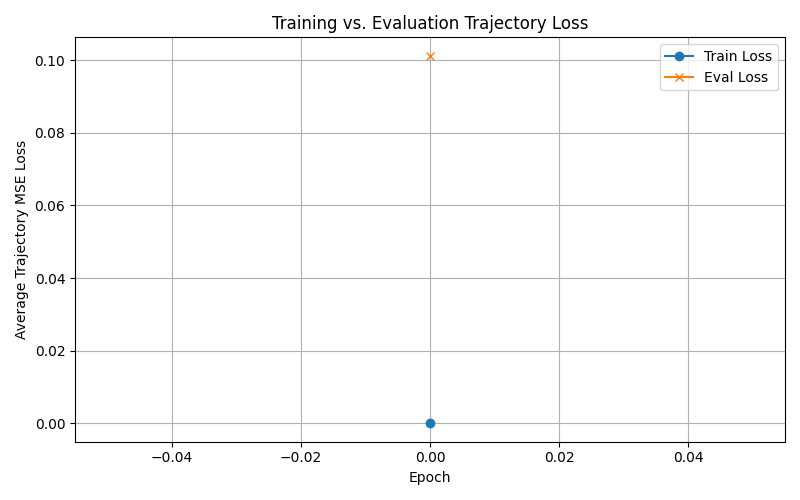
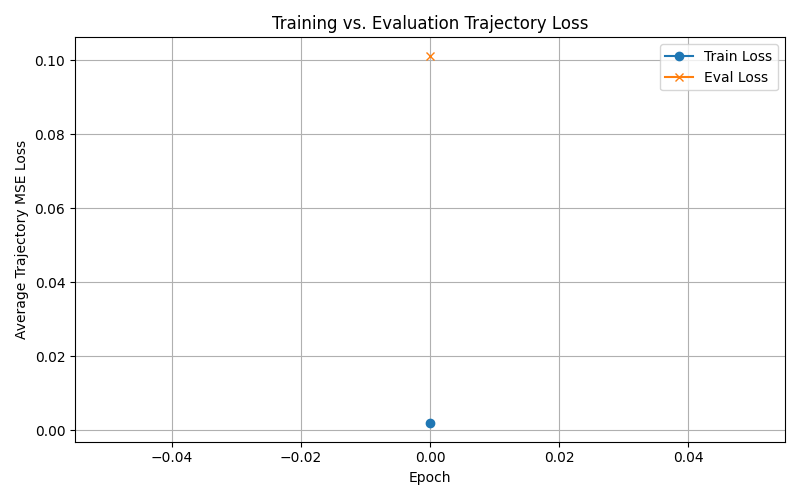
finsh checking outer loop dX_init and dM, dX result is sensitive to perturbation digits

diff --git a/Unit_test_sim.py b/Unit_test_sim.py
@@ -55,15 +55,12 @@ class Unit_test_sim(nn.Module):
         self.zero_mask = torch.all(self.b_undeformed_vert[:, 1:] == 0, dim=-1)
         self.zero_mask_num = 1 - self.zero_mask.repeat(batch, 1).to(torch.uint8)
         self.d_positions_init = torch.tensor([[[0.0, 0.0, 0.0],
-
-                                 [0e-2, 0e-2, 0e-2],
-
-                                 [2e-3, 0e-2, 1e-3],
-                                 [0e-2, 0e-4, 0e-4],
-
-                                 [0e-3, 0e-3, 0e-3],
-                                 [0e-3, 0e-3, 0e-3],
-                                 [0.0, 0.0, 0.0]]])
+                                               [0e-2, 0e-2, 0e-2],
+                                               [0e-3, 0e-2, 0e-3],
+                                               [0e-2, 0e-4, 0e-4],
+                                               [0e-3, 0e-3, 0e-3],
+                                               [0e-3, 0e-3, 0e-3],
+                                               [0.0, 0.0, 0.0]]])
         self.m_restEdgeL, self.m_restRegionL = computeLengths(
             computeEdges(self.b_undeformed_vert.clone(), self.zero_mask)
         )
@@ -101,10 +98,6 @@ class Unit_test_sim(nn.Module):
         self.clamped_index = torch.tensor([[1.0, 1.0,0,0,0, 1.0, 1.0]]) # hardcoded clamped index for the first vertex
         self.inext_scale = self.clamped_index * (1e20)+1 # clamped points does not move
         self.n_branch=n_branch
-
-
-
-
         # self.damping = nn.Parameter(torch.tensor(0.1, device=device))  # damping factor
 
 
@@ -113,7 +106,6 @@ class Unit_test_sim(nn.Module):
         return torch.matmul(mass_matrix, self.gravity.view(-1, 1)).squeeze(-1)
 
     def Numerical_Integration(self,mass_matrix,total_force, velocities,positions, dt):
-
         acc = torch.linalg.solve(mass_matrix, total_force.unsqueeze(-1)).squeeze(-1)
         velocities = velocities + acc * dt
         positions = positions + velocities * dt  # not wrapped in nn.Parameter
@@ -123,62 +115,10 @@ class Unit_test_sim(nn.Module):
         traj_loss_eval = 0.0
         total_loss = 0.0
         total_force = self.External_Force(self.mass_matrix)
-        constraint_loop = 1
+        constraint_loop = 20
 
         self.bkgrad.reset(self.batch, self.n_vert)
 
-        # ___Define the perturbance for analytical & numerical gradient calculation___
-        d_positions = np.array([[[0.0, 0.0, 0.0],
-                                    [0e-2, 0e-2, 0e-2],
-                                    [0e-2, 0e-2, 0e-2],
-                                    [1e-3, 3e-3, 1e-3],
-                                    [4e-3, 5e-3, 1e-3],
-                                    [1e-3, 3e-3, 1e-3],
-                                    [0.0, 0.0, 0.0]]])
-
-        d_mass = np.array([[[0.0],
-                            [0.0],
-                            [3e-3],
-                            [2e-3],
-                            [0.0],
-                            [0.0],
-                            [0.0]]])
-
-        d_positions_init = self.d_positions_init.detach().cpu().numpy()
-        d_positions= torch.from_numpy(d_positions).to(self.device)
-        d_mass_matrix = np.eye(3)[None, :, :] * d_mass.squeeze()[:, None, None]
-        d_mass_matrix = torch.from_numpy(d_mass_matrix).to(self.device)
-
-        positions_pre_constraint = positions_traj[:,0].clone()
-        b_undeformed_vert_pre_constraint = self.b_undeformed_vert.clone()
-
-        # ___Numerical negative perturbation___
-        positions_negative = positions_pre_constraint - d_positions
-        positions_negative_input = positions_negative.clone()
-
-        mass_negative = self.mass_matrix - d_mass_matrix
-        mass_negative_input = mass_negative.clone()
-        mass_scale1_neg = mass_negative_input[:, 1:] @ torch.linalg.pinv(mass_negative_input[:, 1:] + mass_negative_input[:, :-1])
-        mass_scale2_neg = mass_negative_input[:, :-1] @ torch.linalg.pinv(mass_negative_input[:, 1:] + mass_negative_input[:, :-1])
-        mass_scale_neg = torch.cat((mass_scale1_neg, -mass_scale2_neg), dim=1).view(-1, self.n_edge, 3, 3)
-
-        undeform_vert_negative = b_undeformed_vert_pre_constraint-d_positions_init
-        undeform_vert_negative_input = undeform_vert_negative.clone()
-
-        # ___Numerical positive perturbation___
-        positions_positive = positions_pre_constraint + d_positions
-        positions_positive_input = positions_positive.clone()
-
-        mass_positive = self.mass_matrix + d_mass_matrix
-        mass_positive_input = mass_positive.clone()
-        mass_scale1_pos = mass_positive_input[:, 1:] @ torch.linalg.pinv(mass_positive_input[:, 1:] + mass_positive_input[:, :-1])
-        mass_scale2_pos = mass_positive_input[:, :-1] @ torch.linalg.pinv(mass_positive_input[:, 1:] + mass_positive_input[:, :-1])
-        mass_scale_pos = torch.cat((mass_scale1_pos, -mass_scale2_pos), dim=1).view(-1, self.n_edge, 3, 3)
-
-        undeform_vert_positive = b_undeformed_vert_pre_constraint+d_positions_init
-        undeform_vert_positive_input = undeform_vert_positive.clone()
-
-        # ___Analytical gradient & Center values for inextensibility constraint enforcement___
         for t in range(time_horizon):
             if t == 0:
                 # print('at time step', t)
@@ -192,8 +132,64 @@ class Unit_test_sim(nn.Module):
 
             positions = self.Numerical_Integration(self.mass_matrix, total_force, velocities,
                                                                prev_positions, dt)
-            for _ in range(constraint_loop):
 
+            # ___Define the perturbance for analytical & numerical gradient calculation___
+            d_positions = np.array([[[0.0, 0.0, 0.0],
+                                     [0e-2, 0e-2, 0e-2],
+                                     [0e-3, 0e-6, 0e-3],  # correct direction, wrong scale in all axis
+                                     [0e-2, 0e-2, 0e-6],
+                                     [0e-5, 0e-2, 0e-2],
+                                     [0e-2, 0e-2, 0e-2],
+                                     [0.0, 0.0, 0.0]]])
+
+            d_mass = np.array([[[0.0],
+                                [0e-3],
+                                [0e-3],
+                                [0e-3],
+                                [0.0],
+                                [0.0],
+                                [0.0]]])
+
+            d_positions_init = self.d_positions_init.detach().cpu().numpy()
+            d_positions = torch.from_numpy(d_positions).to(self.device)
+            d_mass_matrix = np.eye(3)[None, :, :] * d_mass.squeeze()[:, None, None]
+            d_mass_matrix = torch.from_numpy(d_mass_matrix).to(self.device)
+
+            positions_pre_constraint = positions.clone()
+            b_undeformed_vert_pre_constraint = self.b_undeformed_vert.clone()
+
+            # ___Numerical negative perturbation___
+            positions_negative = positions_pre_constraint - d_positions
+            positions_negative_input = positions_negative.clone()
+
+            mass_negative = self.mass_matrix - d_mass_matrix
+            mass_negative_input = mass_negative.clone()
+            mass_scale1_neg = mass_negative_input[:, 1:] @ torch.linalg.pinv(
+                mass_negative_input[:, 1:] + mass_negative_input[:, :-1])
+            mass_scale2_neg = mass_negative_input[:, :-1] @ torch.linalg.pinv(
+                mass_negative_input[:, 1:] + mass_negative_input[:, :-1])
+            mass_scale_neg = torch.cat((mass_scale1_neg, -mass_scale2_neg), dim=1).view(-1, self.n_edge, 3, 3)
+
+            undeform_vert_negative = b_undeformed_vert_pre_constraint - d_positions_init
+            undeform_vert_negative_input = undeform_vert_negative.clone()
+
+            # ___Numerical positive perturbation___
+            positions_positive = positions_pre_constraint + d_positions
+            positions_positive_input = positions_positive.clone()
+
+            mass_positive = self.mass_matrix + d_mass_matrix
+            mass_positive_input = mass_positive.clone()
+            mass_scale1_pos = mass_positive_input[:, 1:] @ torch.linalg.pinv(
+                mass_positive_input[:, 1:] + mass_positive_input[:, :-1])
+            mass_scale2_pos = mass_positive_input[:, :-1] @ torch.linalg.pinv(
+                mass_positive_input[:, 1:] + mass_positive_input[:, :-1])
+            mass_scale_pos = torch.cat((mass_scale1_pos, -mass_scale2_pos), dim=1).view(-1, self.n_edge, 3, 3)
+
+            undeform_vert_positive = b_undeformed_vert_pre_constraint + d_positions_init
+            undeform_vert_positive_input = undeform_vert_positive.clone()
+
+            # ___Analytical gradient & Center values for inextensibility constraint enforcement___
+            for _ in range(constraint_loop):
                 positions_ICE, grad_per_ICitr = self.constraints_enforcement.Inextensibility_Constraint_Enforcement(
                     self.batch,
                     positions,
@@ -213,7 +209,45 @@ class Unit_test_sim(nn.Module):
                 self.bkgrad.grad_DX_M = grad_per_ICitr.grad_DX_M
 
             # print('positions_ICE', positions_ICE)
+            # print('self.bkgrad.grad_DX_X', self.bkgrad.grad_DX_X)
 
+            # ___Analytical perturbation___
+            d_positions_np = d_positions.detach().cpu().numpy()
+
+            analytical_d_delta_positions_ICE = (np.matmul(self.bkgrad.grad_DX_Xinit, d_positions_init.reshape(1, -1, 1)) + np.matmul(self.bkgrad.grad_DX_X, d_positions_np.reshape(1, -1, 1)) + np.matmul(self.bkgrad.grad_DX_M, d_mass))
+            analytical_d_delta_positions_ICE = analytical_d_delta_positions_ICE.reshape(self.bkgrad.grad_DX_X.shape[0], -1, 3)
+            analytical_d_delta_positions_ICE = analytical_d_delta_positions_ICE.reshape(self.bkgrad.grad_DX_X.shape[0], -1, 3)
+
+            # ___Numerical negative perturbation___
+            positions_ICE_neg = self.constraint_loop_iteration(constraint_loop, self.batch,
+                                                               positions_negative_input,
+                                                               self.batched_m_restEdgeL_neg, mass_negative_input,
+                                                               self.inext_scale, self.clamped_index,
+                                                               mass_scale_neg, self.zero_mask_num,
+                                                               undeform_vert_negative_input, self.bkgrad_neg,
+                                                               self.n_branch)
+            delta_positions_ICE_neg = positions_ICE_neg - positions_negative
+
+            # ___Numerical positive perturbation___
+            positions_ICE_pos = self.constraint_loop_iteration(constraint_loop, self.batch,
+                                                               positions_positive_input,
+                                                               self.batched_m_restEdgeL_pos, mass_positive_input,
+                                                               self.inext_scale,
+                                                               self.clamped_index,
+                                                               mass_scale_pos, self.zero_mask_num,
+                                                               undeform_vert_positive_input,
+                                                               self.bkgrad_pos, self.n_branch)
+            delta_positions_ICE_pos = positions_ICE_pos - positions_positive
+
+            # ___Calculate numerical gradient by finite difference method___
+            d_delta_positions_ICE = (delta_positions_ICE_pos - delta_positions_ICE_neg) / 2
+            d_delta_positions_ICE_np = d_delta_positions_ICE.detach().cpu().numpy()
+
+            print('numerical', d_delta_positions_ICE_np)
+            print('analytical', analytical_d_delta_positions_ICE)
+            print('multiple in iter_Sim', analytical_d_delta_positions_ICE[0] * 1 / d_delta_positions_ICE_np[0])
+
+            # ___Continue with the simulation using the enforced positions___
             velocities = (positions_ICE - prev_positions) / dt
 
             gt_positions = target_traj[:, t]
@@ -227,84 +261,7 @@ class Unit_test_sim(nn.Module):
             # positions_traj[:, t] = positions.detach()
             positions_old = positions_ICE.clone()
 
-        # print('self.bkgrad.grad_DX_X', self.bkgrad.grad_DX_X)
-        d_positions_np = d_positions.detach().cpu().numpy()
-
-        analytical_d_delta_positions_ICE = (np.matmul(self.bkgrad.grad_DX_Xinit, d_positions_init.reshape(1, -1, 1))+np.matmul(self.bkgrad.grad_DX_X, d_positions_np.reshape(1, -1, 1)) + np.matmul(self.bkgrad.grad_DX_M, d_mass))
-        analytical_d_delta_positions_ICE = analytical_d_delta_positions_ICE.reshape(self.bkgrad.grad_DX_X.shape[0], -1, 3)
-        analytical_d_delta_positions_ICE = analytical_d_delta_positions_ICE.reshape(self.bkgrad.grad_DX_X.shape[0],-1, 3)
-
-        # ___Numerical negative perturbation___
-        # positions_ICE_neg = self._ICE_iteration(time_horizon, total_force, dt,
-        #                                         positions_negative_input, previous_positions_traj, self.batched_m_restEdgeL_neg,
-        #                                         mass_negative_input, mass_scale_neg, undeform_vert_negative_input, self.bkgrad_neg)
-        # delta_positions_ICE_neg = positions_ICE_neg - positions_negative
-        #
-        # # ___Numerical positive perturbation___
-        # positions_ICE_pos = self._ICE_iteration(time_horizon, total_force, dt,
-        #                                         positions_positive_input, previous_positions_traj, self.batched_m_restEdgeL_pos,
-        #                                         mass_positive_input, mass_scale_pos, undeform_vert_positive_input, self.bkgrad_pos)
-        # delta_positions_ICE_pos = positions_ICE_pos - positions_positive
-        positions_ICE_neg = self.constraint_loop_iteration( constraint_loop, self.batch, positions_negative_input, self.batched_m_restEdgeL_neg, mass_negative_input, self.inext_scale, self.clamped_index,
-                            mass_scale_neg, self.zero_mask_num, undeform_vert_negative_input, self.bkgrad_neg, self.n_branch)
-        delta_positions_ICE_neg = positions_ICE_neg - positions_negative
-
-        # ___Numerical positive perturbation___
-        positions_ICE_pos = self.constraint_loop_iteration(constraint_loop, self.batch, positions_positive_input,
-                                                self.batched_m_restEdgeL_pos, mass_positive_input, self.inext_scale,
-                                                self.clamped_index,
-                                                mass_scale_pos, self.zero_mask_num, undeform_vert_positive_input,
-                                                self.bkgrad_pos, self.n_branch)
-        delta_positions_ICE_pos = positions_ICE_pos - positions_positive
-
-        # ___Calculate numerical gradient by finite difference method___
-        d_delta_positions_ICE = (delta_positions_ICE_pos - delta_positions_ICE_neg) / 2
-        d_delta_positions_ICE_np = d_delta_positions_ICE.detach().cpu().numpy()
-
-        print('numerical', d_delta_positions_ICE_np)
-        print('analytical',analytical_d_delta_positions_ICE)
-        print('multiple in iter_Sim',analytical_d_delta_positions_ICE[0]*1/d_delta_positions_ICE_np[0])
-
         return traj_loss_eval, total_loss
-
-    def _ICE_iteration(self, time_horizon, total_force, dt,
-                       positions_traj_0, previous_positions_traj, batched_m_restEdgeL, mass_matrix, mass_scale, b_undeformed_vert, bkgrad):
-        for t in range(time_horizon):
-            if t == 0:
-                # print('at time step', t)
-                positions = positions_traj_0
-                prev_positions = previous_positions_traj[:,t].clone()
-                velocities = (positions - prev_positions) / dt
-            else:
-                # print('else at time step', t)
-
-                prev_positions = positions_old.clone()
-
-            positions = self.Numerical_Integration(self.mass_matrix, total_force, velocities,
-                                                               prev_positions, dt)
-
-            positions_ICE, grad_per_ICitr = self.constraints_enforcement.Inextensibility_Constraint_Enforcement(
-                self.batch,
-                positions,
-                batched_m_restEdgeL, ## change to nominal length
-                mass_matrix,
-                self.clamped_index,
-                self.inext_scale,
-                mass_scale,
-                self.zero_mask_num,
-                b_undeformed_vert,
-                bkgrad,
-                self.n_branch
-            )
-
-            # print('positions_ICE', positions_ICE)
-
-            velocities = (positions_ICE - prev_positions) / dt
-
-            # positions_traj[:, t] = positions.detach()
-            positions_old = positions_ICE.clone()
-
-        return positions_ICE
 
     def constraint_loop_iteration(self, constraint_loop, batch, positions, nominal_length, mass_matrix, inext_scale, clamped_index,
                             mass_scale, zero_mask_num, b_undeformed_vert, bkgrad, n_branch):

diff --git a/constraints_solver.py b/constraints_solver.py
@@ -283,8 +283,8 @@ class constraints_enforcement(nn.Module):
         undeformed_vertices = undeformed_vertices.repeat(batch, 1, 1)
 
         # Loop over each edge
-        # for i in range(current_vertices.size()[1] - 1):
-        for i in range(3):
+        for i in range(current_vertices.size()[1] - 1):
+        # for i in range(3):
 
 
             # Extract the 'edge' vector, masked by zero_mask_num
@@ -352,7 +352,7 @@ class constraints_enforcement(nn.Module):
             DX_1  /= scale[:, i]
             # print('DX_0 properly scaled',DX_0)
             # print('DX_1 properly scaled',DX_1)
-            print('multiple within IC', DX_0 / delta_x[:, 0, :].unsqueeze(-1),DX_1 / delta_x[:, 1, :].unsqueeze(-1))
+            # print('multiple within IC', DX_0 / delta_x[:, 0, :].unsqueeze(-1),DX_1 / delta_x[:, 1, :].unsqueeze(-1))
 
 
 

diff --git a/DEFT_sim.py b/DEFT_sim.py
@@ -849,7 +849,7 @@ class DEFT_sim(nn.Module):
             A PyTorch loss function, e.g. MSELoss.
         dt: float
             Timestep size.
-        parent_theta_clamp / child1_theta_clamp / child2_theta_clamp:
+        parent_theta_clamp / child1_theta_clamp / child2_theta_clamp:constraint_loop
             Indices for controlling which twist angles are clamped in parent/child branches.
         inference_1_batch: bool
             If True, uses the numba-based single-batch approach for constraints.
